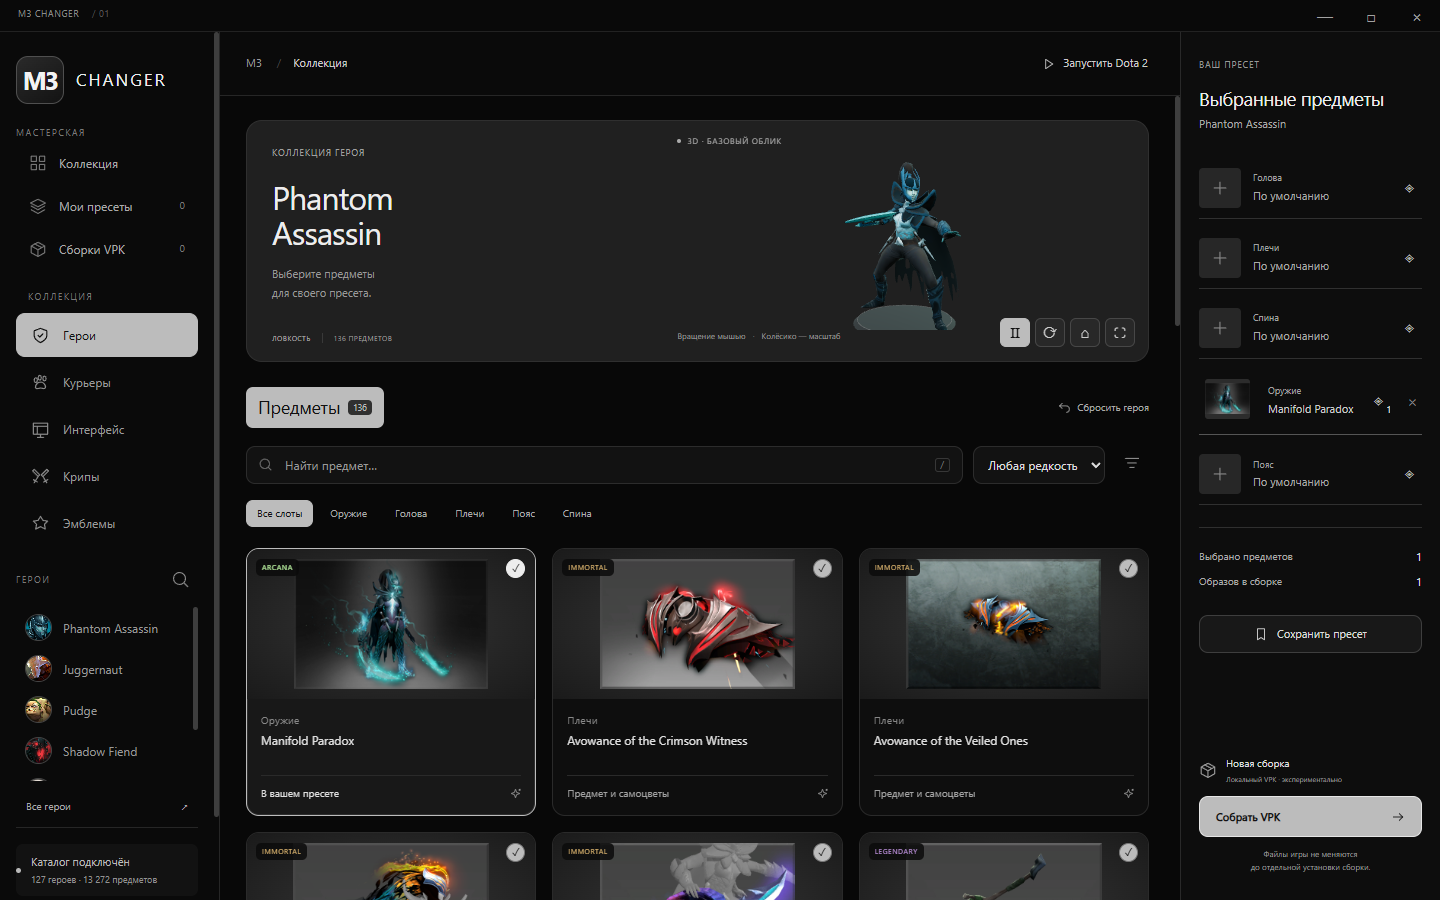
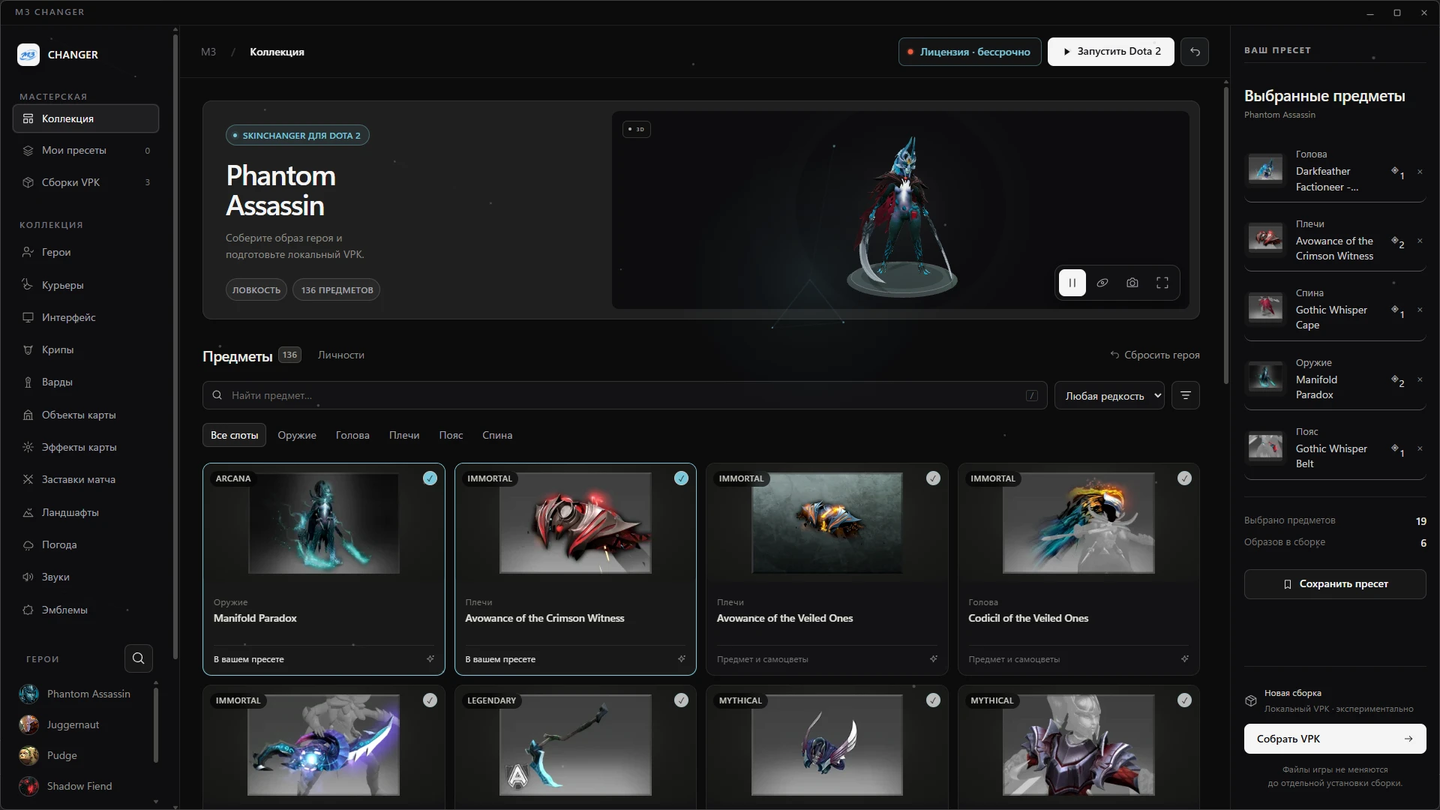
Скриншот нового интерфейса

diff --git a/index.html b/index.html
@@ -60,7 +60,7 @@
 <section id="studio" class="section grid-bg">
  <div class="wrap">
   <div class="section-head reveal"><p class="label">Лаунчер</p><h2>Знакомо с первого запуска</h2><p>Герой слева, слоты и предметы справа, сборка — одной кнопкой. Интерфейс повторяет логику инвентаря Dota.</p></div>
-  <div class="app-frame reveal"><div class="frame-bar"><span></span><span></span><span></span><b>M3 Changer</b></div><button class="app-zoom" aria-label="Увеличить снимок лаунчера"><img decoding="async" src="assets/launcher.webp" alt="Интерфейс M3 Changer: коллекция Phantom Assassin и выбранные предметы" width="1440" height="900" loading="lazy"><span class="zoom-label"><svg class="i"><use href="#i-expand"/></svg>Открыть в полном размере</span></button></div>
+  <div class="app-frame reveal"><div class="frame-bar"><span></span><span></span><span></span><b>M3 Changer</b></div><button class="app-zoom" aria-label="Увеличить снимок лаунчера"><img decoding="async" src="assets/launcher.webp?v=ui-2" alt="Интерфейс M3 Changer: коллекция Phantom Assassin и выбранные предметы" width="1920" height="1080" loading="lazy"><span class="zoom-label"><svg class="i"><use href="#i-expand"/></svg>Открыть в полном размере</span></button></div>
  </div>
 </section>
 
@@ -140,7 +140,7 @@
  </div>
 </footer>
 
-<dialog id="lightbox"><button class="dialog-close" aria-label="Закрыть"><svg class="ui-icon" viewBox="0 0 24 24" fill="none" stroke="currentColor" stroke-width="1.6" stroke-linecap="round" stroke-linejoin="round" aria-hidden="true"><path d="m7 7 10 10M17 7 7 17"/></svg></button><img src="assets/launcher.webp" alt="Интерфейс M3 Changer в полном размере" loading="lazy" decoding="async"></dialog><dialog id="authDialog" class="auth-dialog" aria-labelledby="authTitle" aria-describedby="authSubtitle">
+<dialog id="lightbox"><button class="dialog-close" aria-label="Закрыть"><svg class="ui-icon" viewBox="0 0 24 24" fill="none" stroke="currentColor" stroke-width="1.6" stroke-linecap="round" stroke-linejoin="round" aria-hidden="true"><path d="m7 7 10 10M17 7 7 17"/></svg></button><img src="assets/launcher.webp?v=ui-2" alt="Интерфейс M3 Changer в полном размере" loading="lazy" decoding="async"></dialog><dialog id="authDialog" class="auth-dialog" aria-labelledby="authTitle" aria-describedby="authSubtitle">
  <button class="dialog-close" aria-label="Закрыть"><svg class="ui-icon" viewBox="0 0 24 24" fill="none" stroke="currentColor" stroke-width="1.6" stroke-linecap="round" stroke-linejoin="round" aria-hidden="true"><path d="m7 7 10 10M17 7 7 17"/></svg></button>
  <div class="auth-layout"><aside class="auth-art" aria-label="M3 Changer"><a class="brand" href="#top"><span class="mark">M3</span> CHANGER</a><div class="auth-art-copy"><span class="mini">ТВОЯ КОЛЛЕКЦИЯ</span><h2>Всё начинается<br>с <em>твоего выбора.</em></h2></div><img decoding="async" src="assets/render_phantom_assassin.webp" alt="" width="650" height="650"><p>Герои. Образы. Твоя атмосфера.</p></aside>
  <div class="auth-content"><div class="auth-tabs" role="tablist" aria-label="Вход или регистрация"><button id="authTabRegister" role="tab" aria-controls="authForm" data-auth-mode="register" aria-selected="true">Регистрация</button><button id="authTabLogin" role="tab" aria-controls="authForm" data-auth-mode="login" aria-selected="false" tabindex="-1">Вход</button></div><h2 id="authTitle">Твоя коллекция начинается здесь.</h2><p id="authSubtitle">Создай аккаунт M3 или продолжи через удобный сервис.</p>
